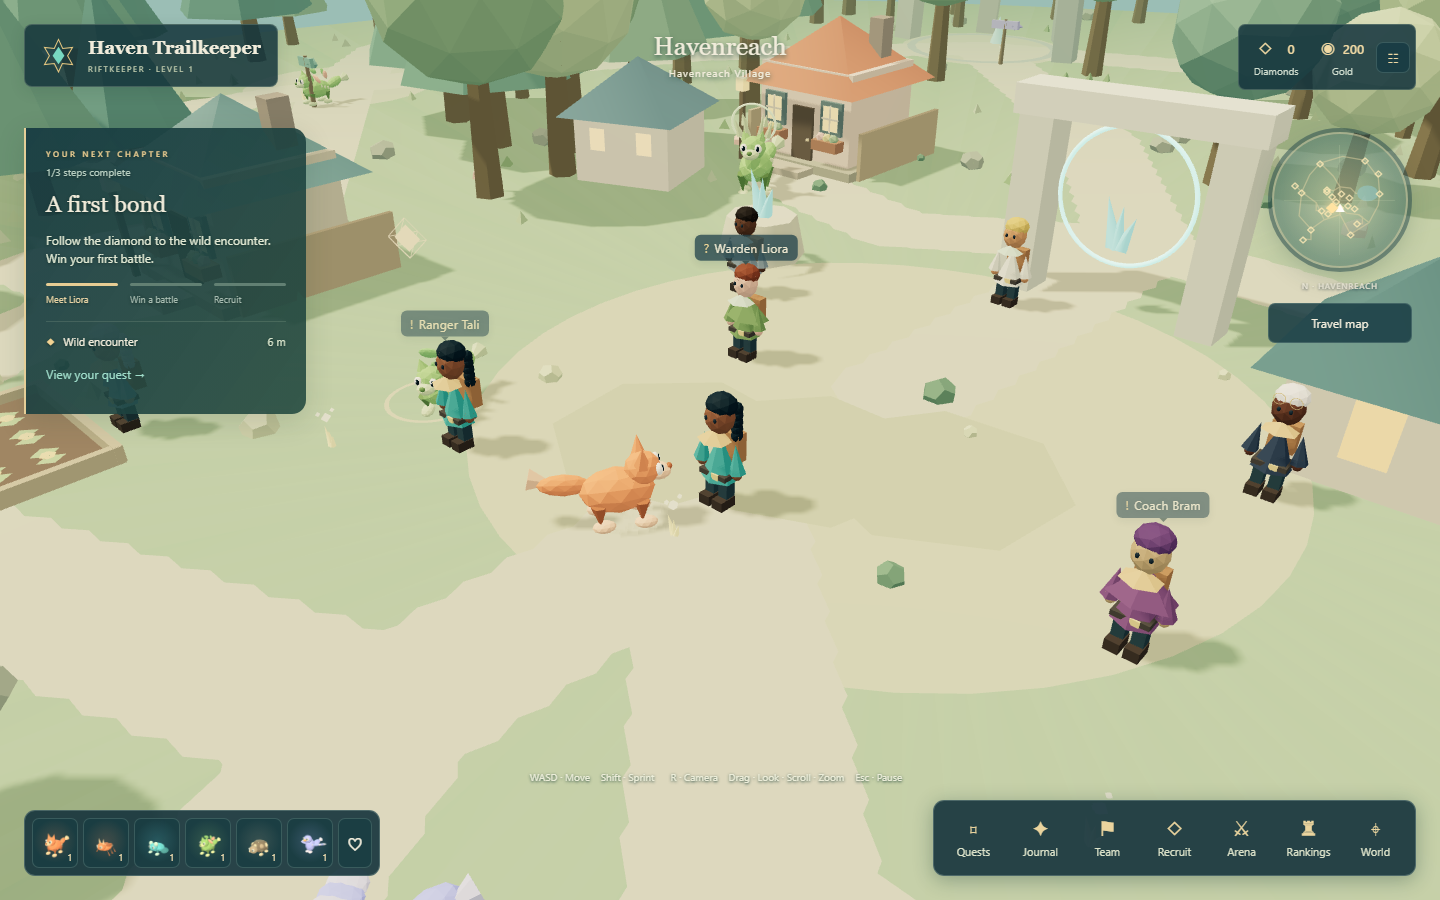
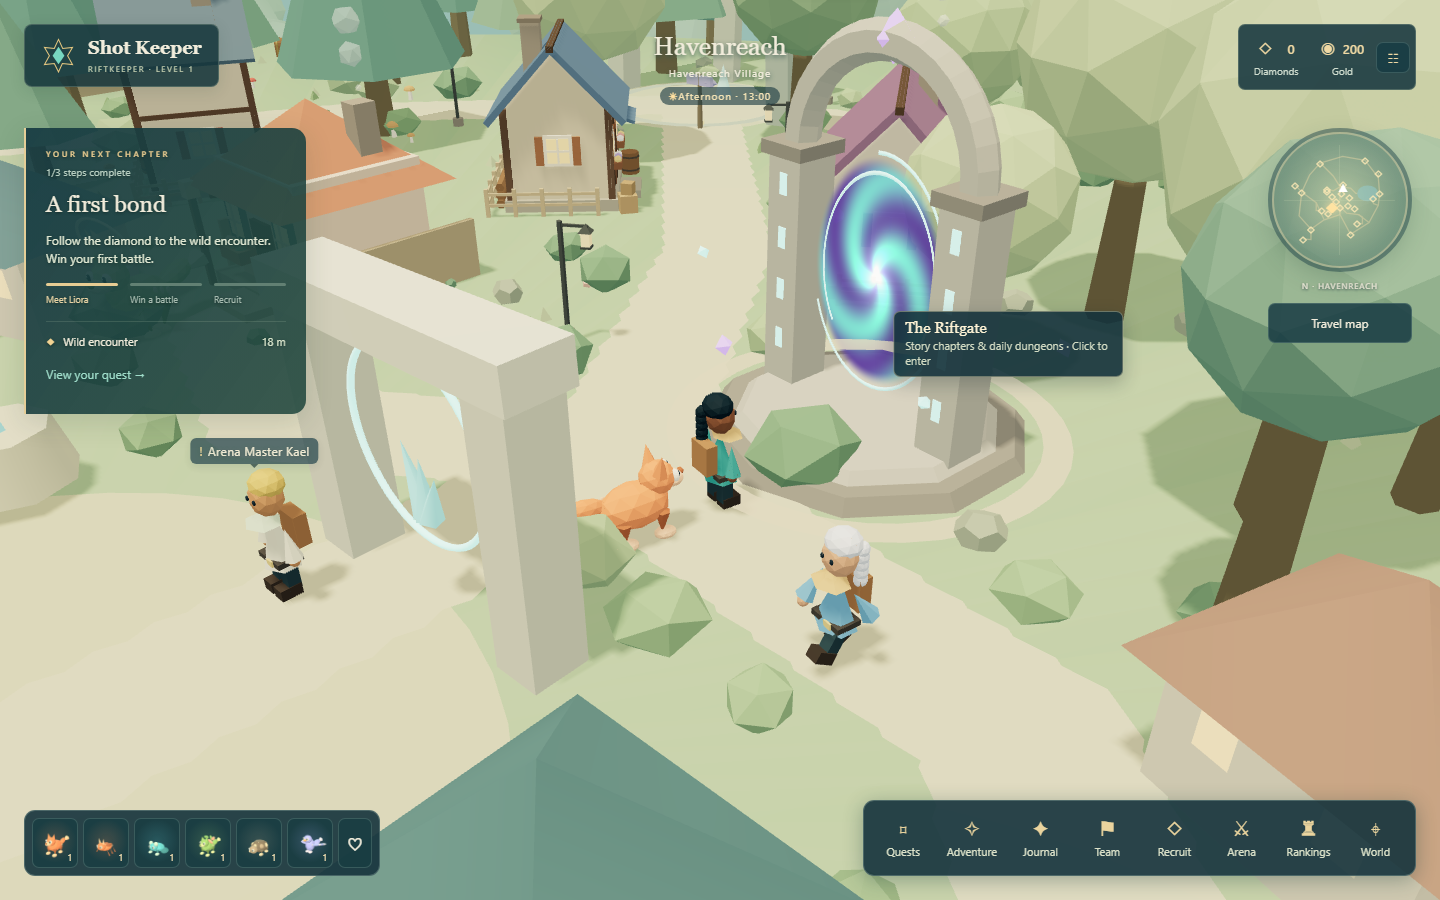
docs: record verification and refresh island and dungeon screenshots

diff --git a/PROGRESS.md b/PROGRESS.md
@@ -2,6 +2,21 @@
 
 ## Current playable build
 
+### Point-and-click island, living village, and the Riftgate
+
+Interaction is now fully mouse-driven: click the ground to walk along pathfinding routes, or click a villager, home, crystal, cache, or the dock to walk over and interact. Hovering shows a highlight ring and a tooltip. The desktop prompt card and controls strip below the keeper were removed; the pause menu has a controls reference, and touch screens keep a tap button.
+
+Havenreach gained nine cottages, a windmill, a well, a fishing dock, a campfire, trail lamps, and six islanders who keep a day/night routine. An 18-minute day/night cycle adds moonlight, glowing windows, fireflies, and shadows that follow the keeper. New activities are eight hidden Skyglass caches and a fishing mini-game. The Riftgate opens five story chapters (twenty stages, five bosses) and three daily dungeons. Companions can level skills and ultimates and wear forgeable equipment. Saves gain only optional fields.
+
+Verification on October 1, 2026:
+
+- Typecheck, production build, and **49 unit tests across eight files** pass. New tests cover layout clearances, click-to-walk routes to every cache, porch, and the dock, cache and fishing rewards, chapter unlocks and stars, boss drops, dungeon limits and tiers, skill power, equipment bonuses (ignored in Tactical Arena), and elixirs.
+- Stage and dungeon enemy levels were calibrated by simulating auto-battles of the starter team: about 75% wins at each recommended level and 60% for bosses. The first two stages are gentle enough for a new level-1 team with any starter. A real browser playthrough of Chapter 1-1 earned two stars and its rewards.
+- All nine browser scenarios passed, including a new one that clicks the ground, hovers and opens a cache, and fishes at the dock. The first-journey scenario failed once for an undiagnosed reason, then passed three consecutive runs.
+- In the software-rendered test browser, the village scene draws fewer calls than before (401 vs 484) at the same frame rate (4.25 vs 4.0 fps). Real GPU performance was not measured.
+
+Commits: `183a343`, `c3333ca`, `b24526c`, `42a7cb3`, `912a811`.
+
 ### Broader Havenreach - starting-island expansion
 
 Implemented the connected seven-place starting island, instanced woodland, pond and bridge, 17 roaming habitat companions, nine daily gathering nodes, trail map, sprint, camera reset, and village return. The latest extension adds six clickable houses with porches and a saved visitor stamp book. Clicking villagers, wildlife, resources, or labels replaces the E interaction. Existing saves receive only an optional stamps field; existing game progression is retained. All 39 tests across seven files pass, including the shared walking paths, house doors, duplicate stamp rewards, legacy saves, battle rules, and real network sessions. The production build, compiled smoke check, content audit (60 species / 180 actions / 60 passives), and dependency audit (zero vulnerabilities) pass. The full browser suite is in progress; all models and all ten paused mythic effects have passed so far.

diff --git a/README.md b/README.md
@@ -120,6 +120,8 @@ The glowing Riftgate stands in the north lane of Havenreach village. Click it, o
 
 Chapter and dungeon victories also count toward daily wins and region unlocks.
 
+![The three Rift dungeons behind the Riftgate](docs/screenshots/riftgate-dungeons.png)
+
 ## Play against another keeper
 
 Keep the server running. Open the game in a second browser profile or a private window; regular tabs share the same guest token and therefore the same keeper.

diff --git a/docs/STARTING_ISLAND.md b/docs/STARTING_ISLAND.md
@@ -1,6 +1,6 @@
 # Exploring Havenreach
 
-![The village plaza, companions, and new homes](screenshots/havenreach.png)
+![The Riftgate in Havenreach village, with its hover tooltip and a strolling islander](screenshots/havenreach.png)
 
 Havenreach is the first place to learn the world at your own pace. Its village services remain together near the starting plaza, while a larger outer walking loop connects six quieter destinations.
 
